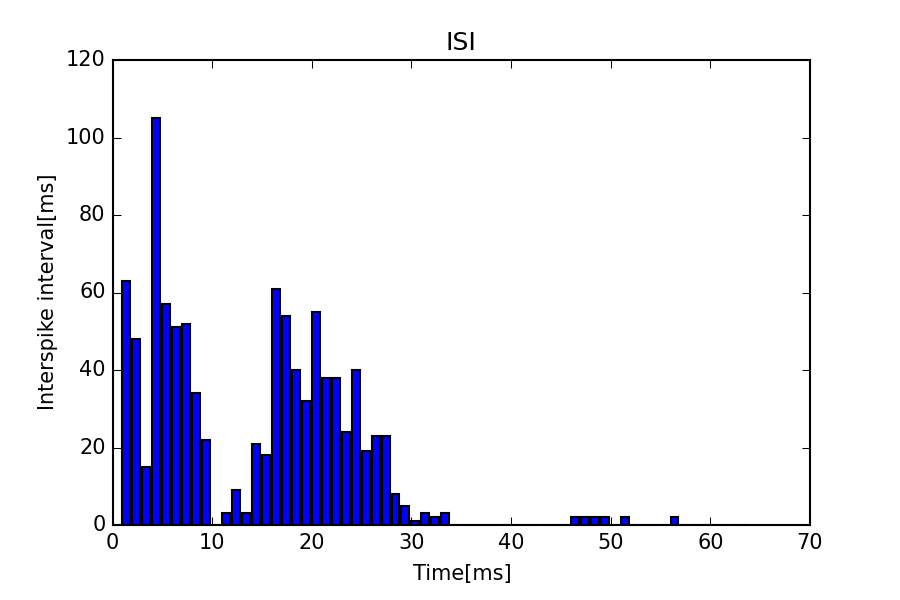
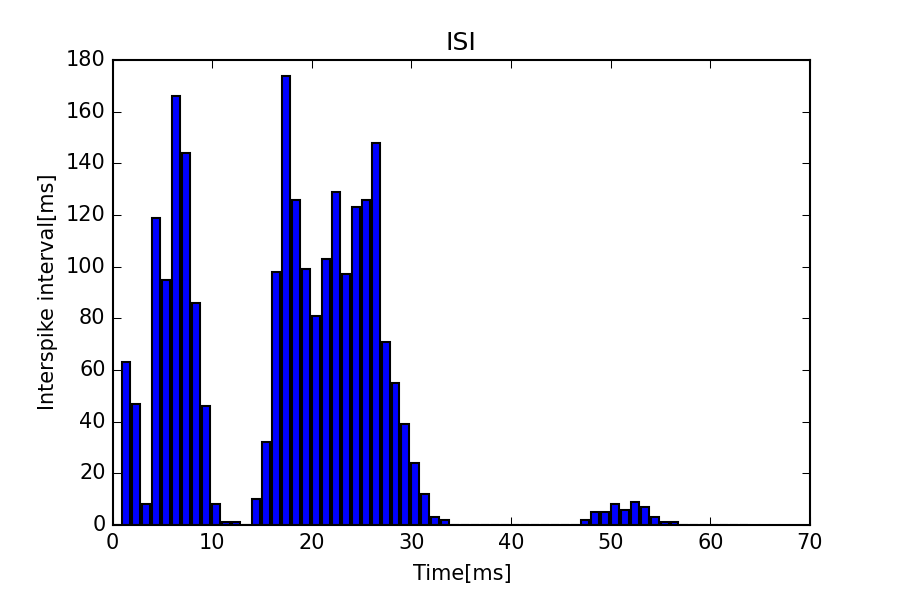
ISI PSTH

diff --git a/ISI and PSTH.py b/ISI and PSTH.py
@@ -19,7 +19,8 @@ def main():
     l=0
     j=0
     k=0
-    size=1000
+    size=2500
+    MAXtime=1700    
     cutsize=15
 
     numbers1 =numpy.zeros(size)
@@ -27,8 +28,8 @@ def main():
     numbers3 =numpy.zeros(size)
     isi =numpy.zeros(64)
     x_isi =numpy.arange(64)
-    psth =numpy.zeros(1000)
-    x_psth =numpy.arange(1000)
+    psth =numpy.zeros(MAXtime)
+    x_psth =numpy.arange(MAXtime)
     xmin, xmax, nx = 0.0, size, size
 
     for line in open(OpenfileName+'.txt', 'r'):
@@ -49,11 +50,11 @@ def main():
 
 
     for i in numbers2:
-        for j in range(1000):
+        for j in range(size):
             if numbers2[i]==j and 5<j:
                 psth[j]=psth[j]+1
                 
-    for i in range(1000):
+    for i in range(size):
         for j in range(64):
             if numbers3[i]==j and 0<j:
                 isi[j]=isi[j]+1                
